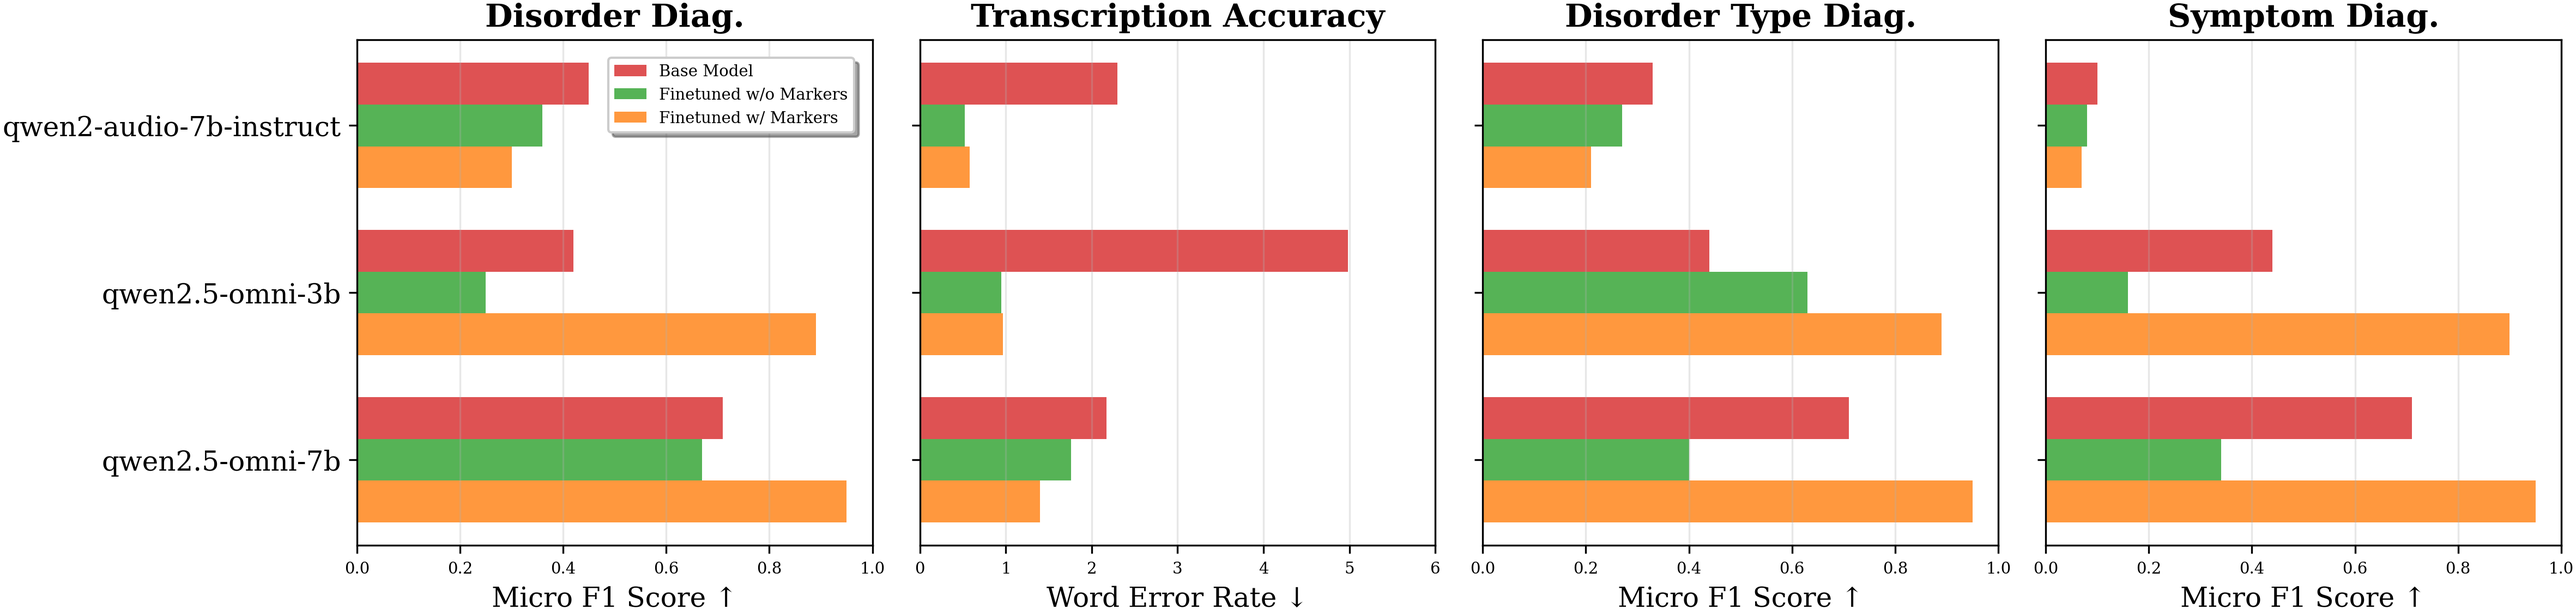
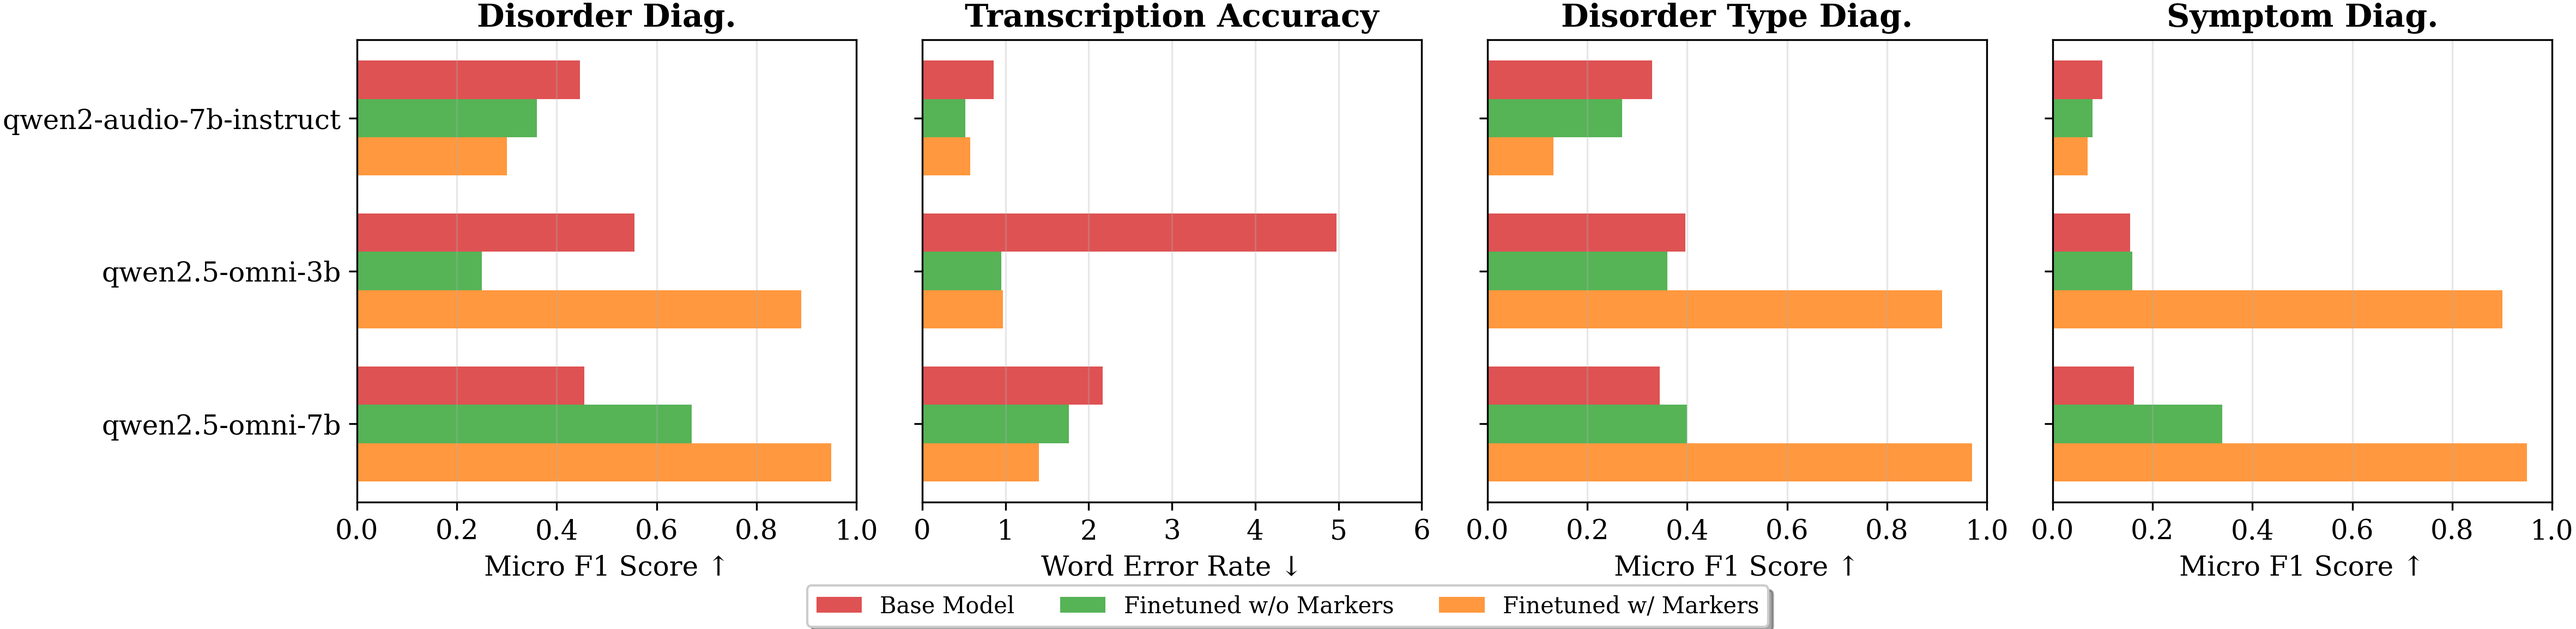
finetune

diff --git a/finetune_figure.py b/finetune_figure.py
@@ -18,28 +18,28 @@ colors = ['#d62728', '#2ca02c', '#ff7f0e']  # Red, Green, Orange
 # Sample data for each subplot (you should replace with actual data)
 # Subplot 1: Disorder Diagnosis (Micro F1 Score)
 disorder_diagnosis_data = {
-    'Base Model': [0.71, 0.42, 0.45],
+    'Base Model': [0.455, 0.556, 0.447],
     'Finetuned w/o Markers': [0.67, 0.25, 0.36], 
     'Finetuned w/ Markers': [0.95, 0.89, 0.30]
 }
 
 # Subplot 2: Transcription Accuracy (Word Error Rate - lower is better)
 transcription_accuracy_data = {
-    'Base Model': [2.17, 4.98, 2.3],
+    'Base Model': [2.17, 4.98, 0.86],
     'Finetuned w/o Markers': [1.76, 0.95, 0.52],
     'Finetuned w/ Markers': [1.4, 0.97, 0.58]
 }
 
 # Subplot 3: Disorder Type Diagnosis (Micro F1 Score)
 disorder_type_data = {
-    'Base Model': [0.71, 0.44, 0.33],
-    'Finetuned w/o Markers': [0.40, 0.63, 0.27],
-    'Finetuned w/ Markers': [0.95, 0.89, 0.21]
+    'Base Model': [0.345, 0.396, 0.33],
+    'Finetuned w/o Markers': [0.40, 0.36, 0.27],
+    'Finetuned w/ Markers': [0.97, 0.91, 0.132]
 }
 
 # Subplot 4: Disorder Symptom Diagnosis (Micro F1 Score)  
 disorder_symptom_data = {
-    'Base Model': [0.71, 0.44, 0.10],
+    'Base Model': [0.163, 0.155, 0.10],
     'Finetuned w/o Markers': [0.34, 0.16, 0.08],
     'Finetuned w/ Markers': [0.95, 0.90, 0.07]
 }
@@ -82,13 +82,14 @@ for idx, (data, title, xlabel, xlim) in enumerate(subplot_data):
     ax.set_title(title, fontweight='bold', fontsize=14)
     ax.set_xlim(xlim)
     ax.grid(axis='x', alpha=0.3)
-    
-    # Add legend only to the first subplot, positioned outside the plot area
-    if idx == 0:
-        ax.legend(bbox_to_anchor=(0.98, 0.98), loc='upper right', frameon=True, fancybox=True, shadow=True)
+    ax.tick_params(axis='x', labelsize=12)  # Increase x-axis tick label font size
 
-# Adjust layout to prevent overlap
+# Add common legend at bottom center
+fig.legend(conditions, bbox_to_anchor=(0.5, 0.09), loc='upper center', ncol=3, frameon=True, fancybox=True, shadow=True, fontsize=10)
+
+# Adjust layout to prevent overlap and make room for legend
 plt.tight_layout()
+plt.subplots_adjust(bottom=0.2)
 
 # Show the plot
 plt.savefig('Finetuning.png', dpi=300, bbox_inches='tight')
